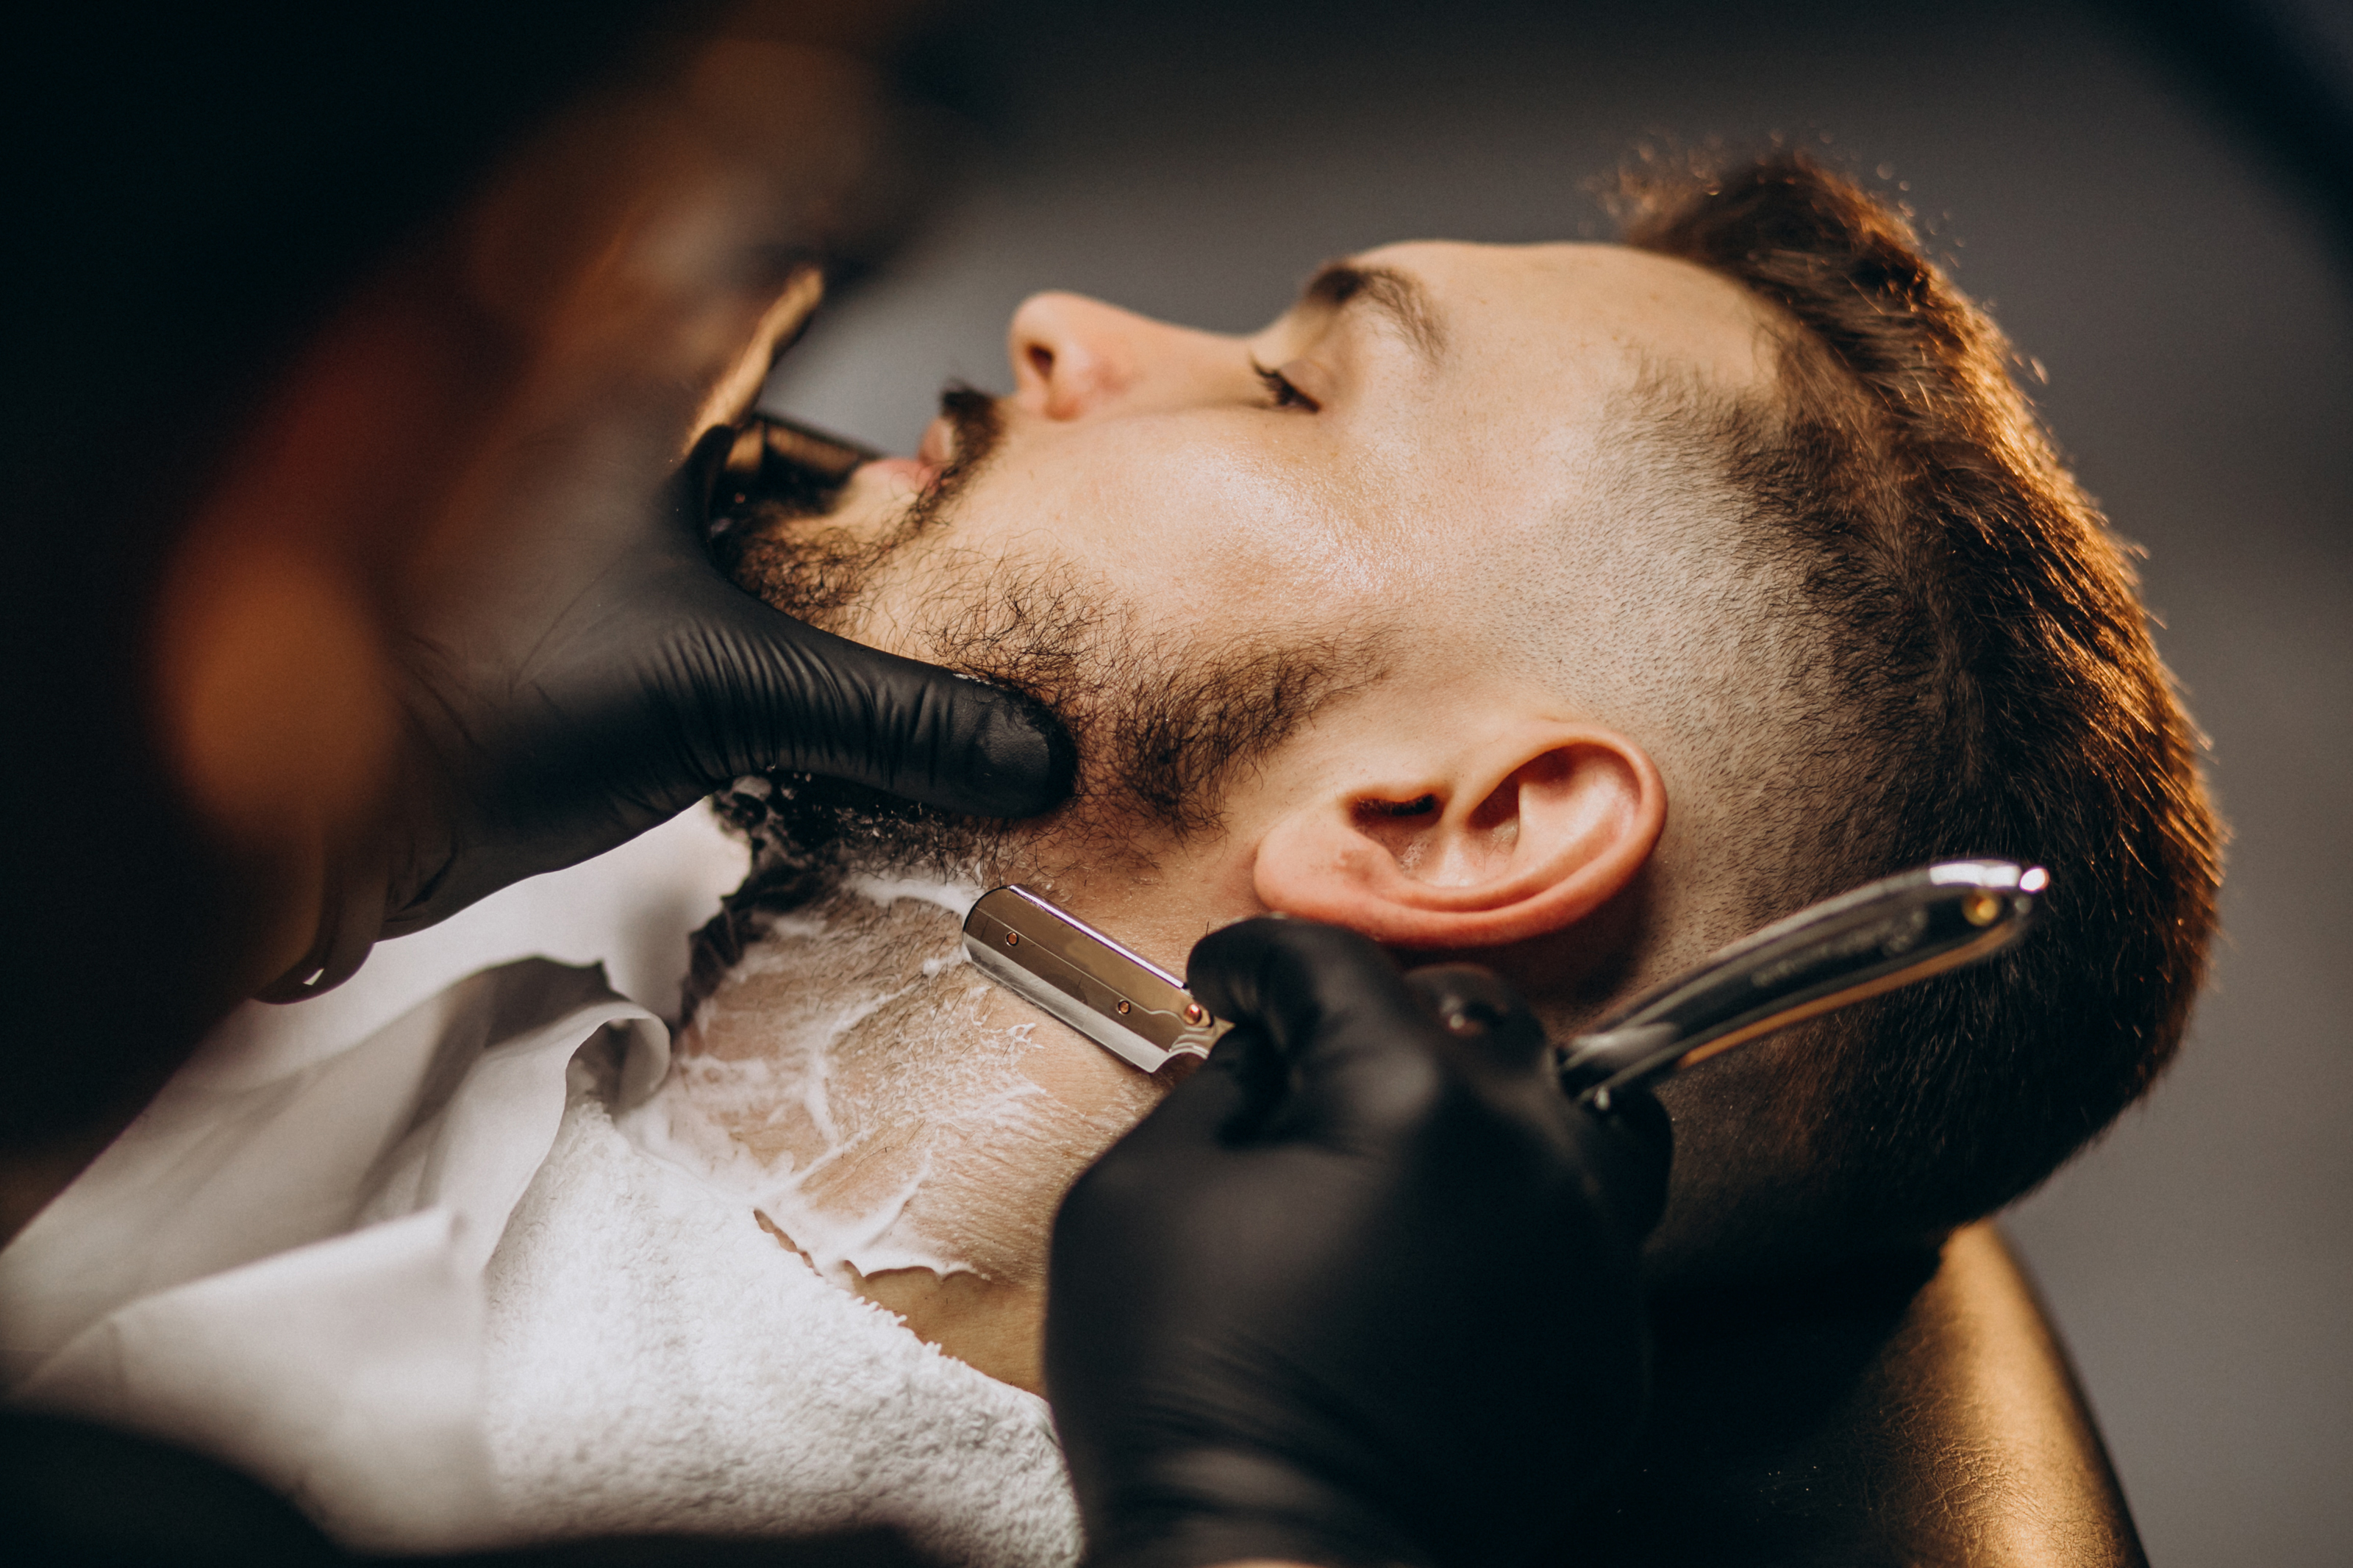
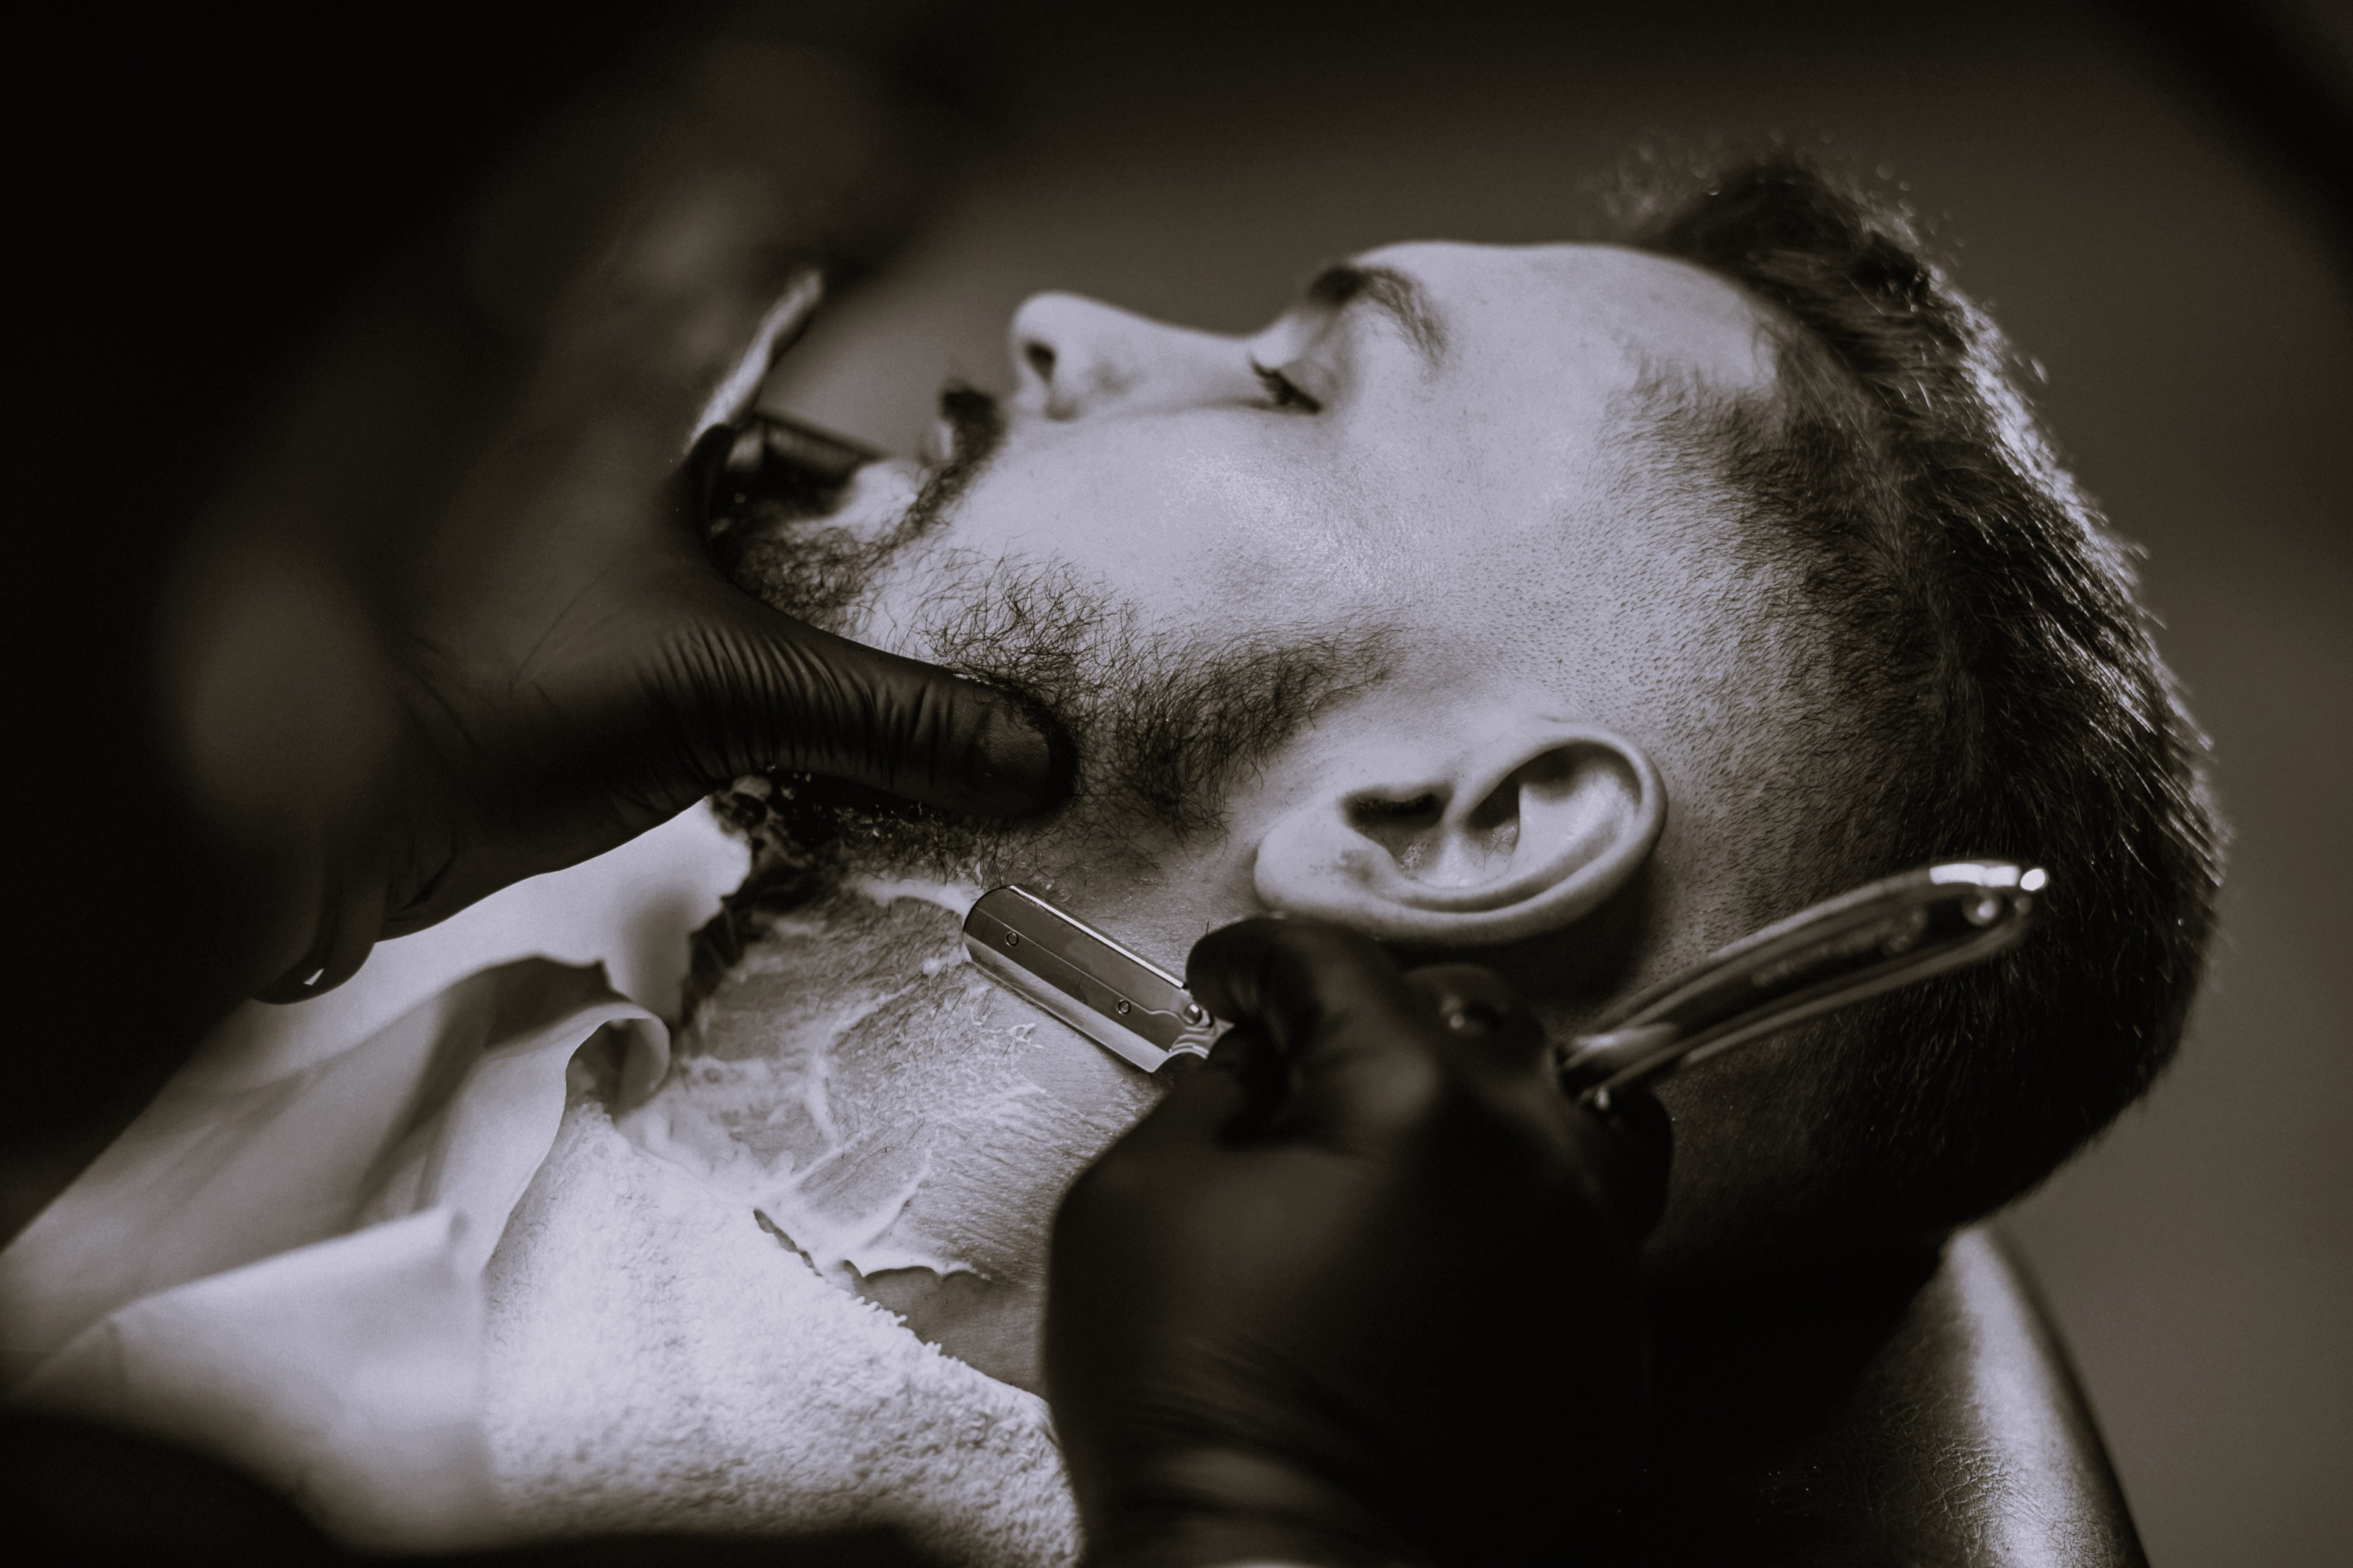
25

diff --git a/css/home.css b/css/home.css
@@ -16,6 +16,7 @@
     font-size: 48px;
     margin-bottom: 20px;
     color: #ffffff;
+    text-align: center;
 }
 
 .main-content p {
@@ -23,6 +24,7 @@
     margin-bottom: 30px;
     color: #ffffff;
     margin-left: 25px;  
+    text-align: center;
 }
 
 .divider-button {
@@ -68,4 +70,5 @@
     margin-bottom: 30px;
     color: #ffffff;
     margin-left: 25px; 
+    text-align: center;
 }